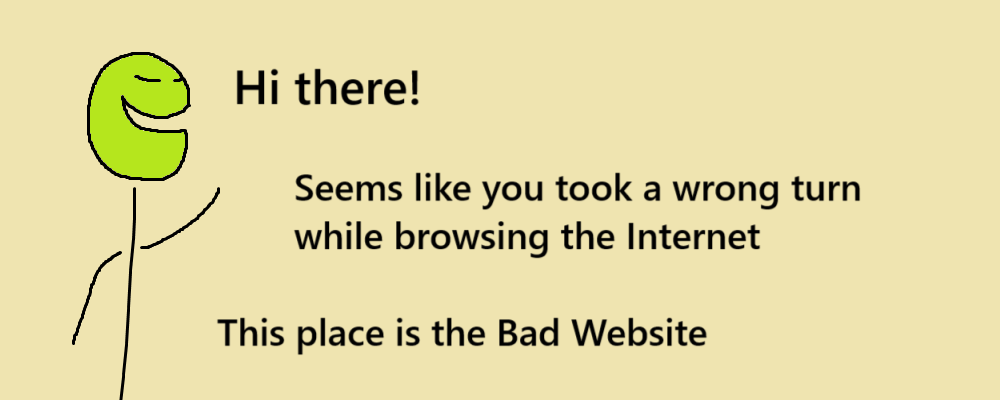
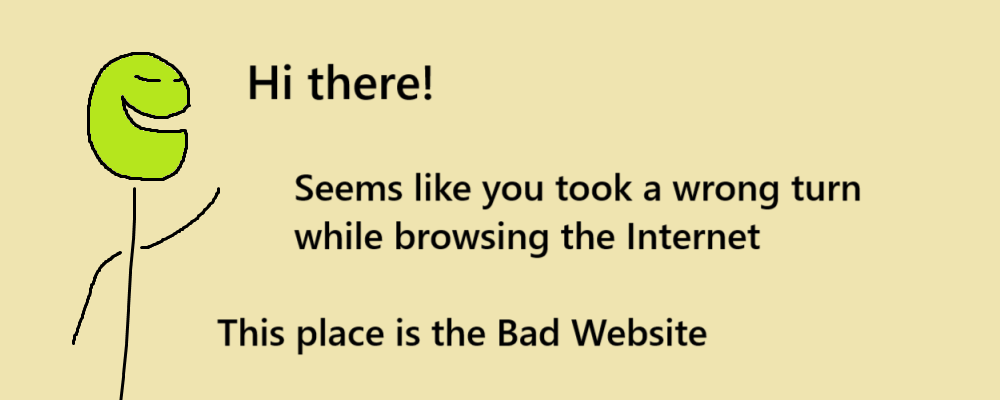
Videos: Placeholder comics

Changed region(s): [[0.217, 0.15, 0.434, 0.27]]

diff --git a/pages/videos.php b/pages/videos.php
@@ -1,0 +1,35 @@
+<?php /***************************************************************************************************************/
+/*                                                                                                                   */
+/*                                                       SETUP                                                       */
+/*                                                                                                                   */
+// File inclusions /**************************************************************************************************/
+include_once './../inc/includes.inc.php'; # Core
+include_once './../lang/main.lang.php';   # Translations
+
+// Page summary
+$page_lang        = array('FR', 'EN');
+$page_url         = "pages/videos";
+$page_description = "Hi, this is Bad, and you're on the wrong website.";
+
+
+
+
+/*********************************************************************************************************************/
+/*                                                                                                                   */
+/*                                                     FRONT END                                                     */
+/*                                                                                                                   */
+/*******************************************************************************/ include './../inc/header.inc.php'; ?>
+
+<div class="width_50">
+
+  <img src="<?=$path?>img/website/videos_intro_<?=$lang?>.png" alt="<?=__('videos_comics_intro')?>" title="<?=__('videos_comics_intro')?>">
+
+  <img src="<?=$path?>img/website/videos_future_<?=$lang?>.png" alt="<?=__('videos_comics_future')?>" title="<?=__('videos_comics_future')?>">
+
+</div>
+
+<?php /***************************************************************************************************************/
+/*                                                                                                                   */
+/*                                                    END OF PAGE                                                    */
+/*                                                                                                                   */
+/**********************************************************************************/ include './../inc/footer.inc.php';

diff --git a/lang/main.lang.php b/lang/main.lang.php
@@ -20,6 +20,7 @@ ___('home_intro_text',  'FR', "Revenez dans quelques semaines :)");
 ___('home_intro_bsky',  'EN', "In the meantime, you can find my smuggies <span class=\"text_blue\">on Bluesky</span>");
 ___('home_intro_bsky',  'FR', "En attendant, vous pouvez trouver mes arroganteries <span class=\"text_blue\">sur Bluesky</span>");
 
+
 // Mini comics
 ___('home_comics_intro', 'EN', <<<EOT
 Hi there!
@@ -91,5 +92,36 @@ EOT
 );
 ___('home_comics_rss', 'FR', <<<EOT
 Es-tu une personne à l'ancienne ? Clique-moi pour avoir un flux RSS !
+EOT
+);
+
+
+
+
+/*********************************************************************************************************************/
+/*                                                                                                                   */
+/*                                                     VIDEOS                                                        */
+/*                                                                                                                   */
+/*********************************************************************************************************************/
+
+// Mini comics
+___('videos_comics_intro', 'EN', <<<EOT
+Videos?
+What do you mean videos?
+There's clearly no such thing on this website, you've been misled
+EOT
+);
+___('videos_comics_intro', 'FR', <<<EOT
+Des vidéos ?
+Comment ça des vidéos ?
+Il n'y en a pas sur ce site, on vous a donné des fausses informations
+EOT
+);
+___('videos_comics_future', 'EN', <<<EOT
+This page is probably there for a reason though... how ominous!
+EOT
+);
+___('videos_comics_future', 'FR', <<<EOT
+Mais cette page doit bien avoir une raison d'exister... c'est suspect !
 EOT
 );